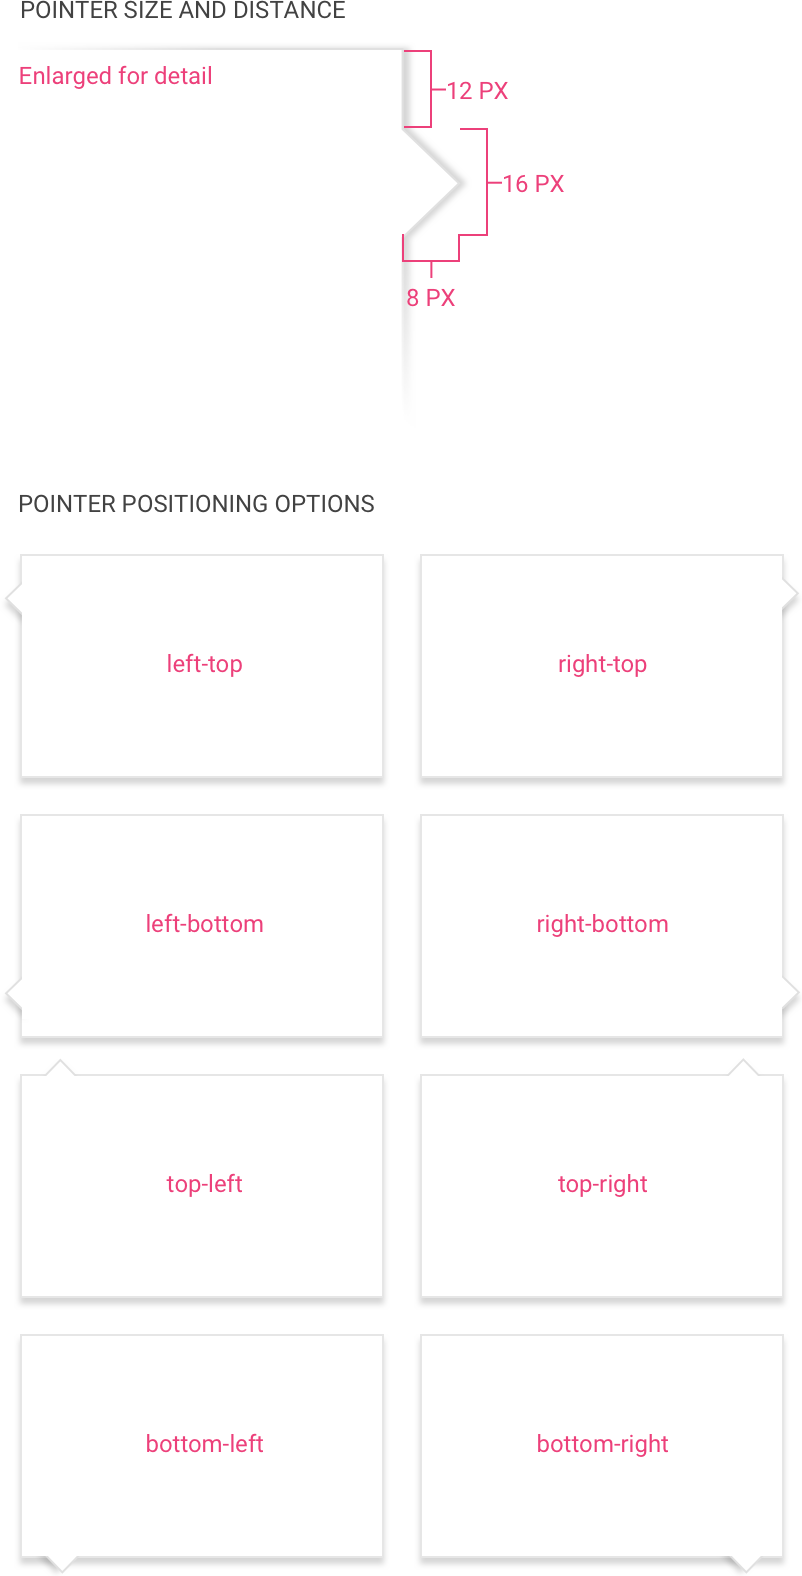
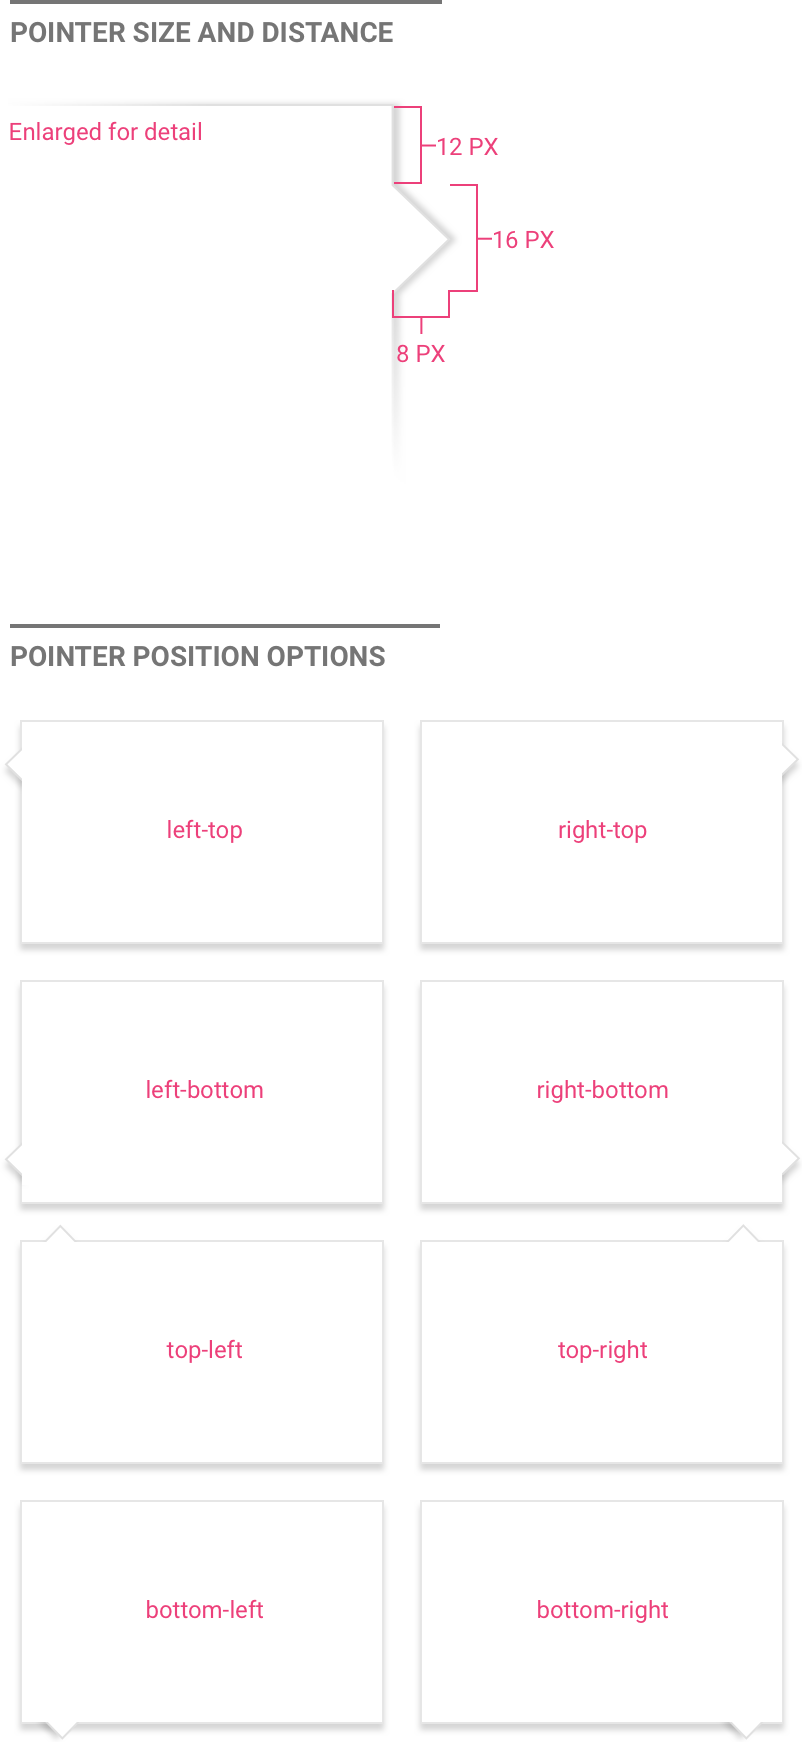
update(visuals): added new grayline visual

diff --git a/_component_design/popovers.md b/_component_design/popovers.md
@@ -8,7 +8,7 @@ usage: >
 preview-image: preview-images/popover.svg
 resource: true
 status: stable
-last-modified: 2018-05-15
+last-modified: 2018-08-02
 helix-ui-css: true
 helix-ui-javascript: true
 ---
@@ -172,7 +172,7 @@ Use the following guidelines when you construct a popover pointer:
 
 {% column right:"hxCol hxSpan-12-xs hxSpan-12-sm hxSpan-8-md hxSpan-8-lg" %}
 
-{% figure [caption:"Pointer specifications and placement variations"] [class:"image bg-light border"] %}
+{% figure [caption:"Pointer size and placement variations"] [class:"image bg-light border"] %}
 <embed src="{{site.url}}/assets/images/components/content-areas/popovers/popovers-size-and-spacing.png" width="401px"/>
 {% endfigure %}
 
